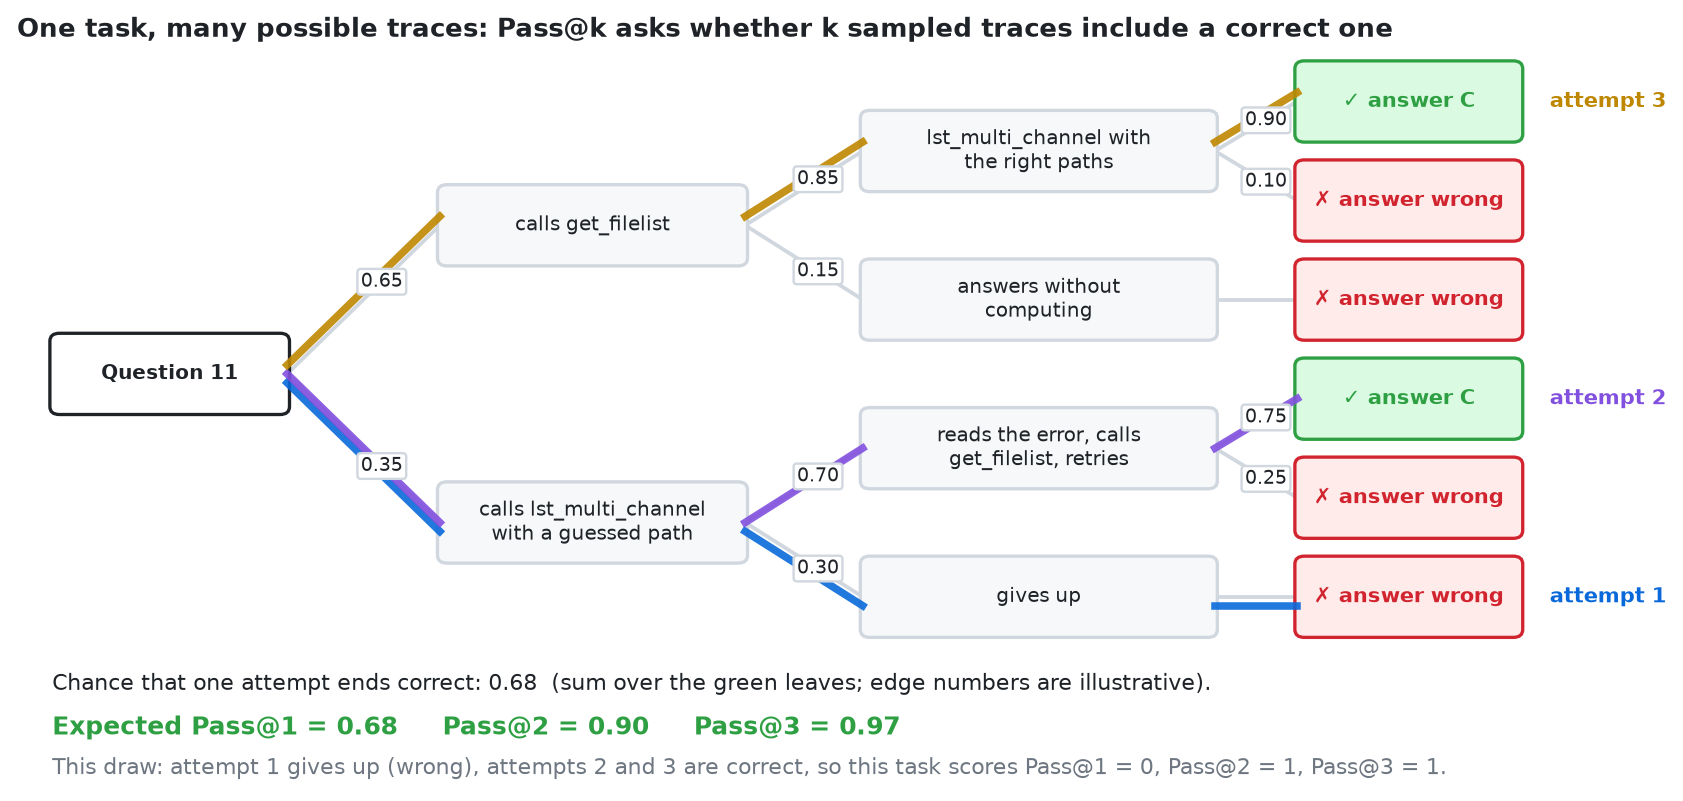
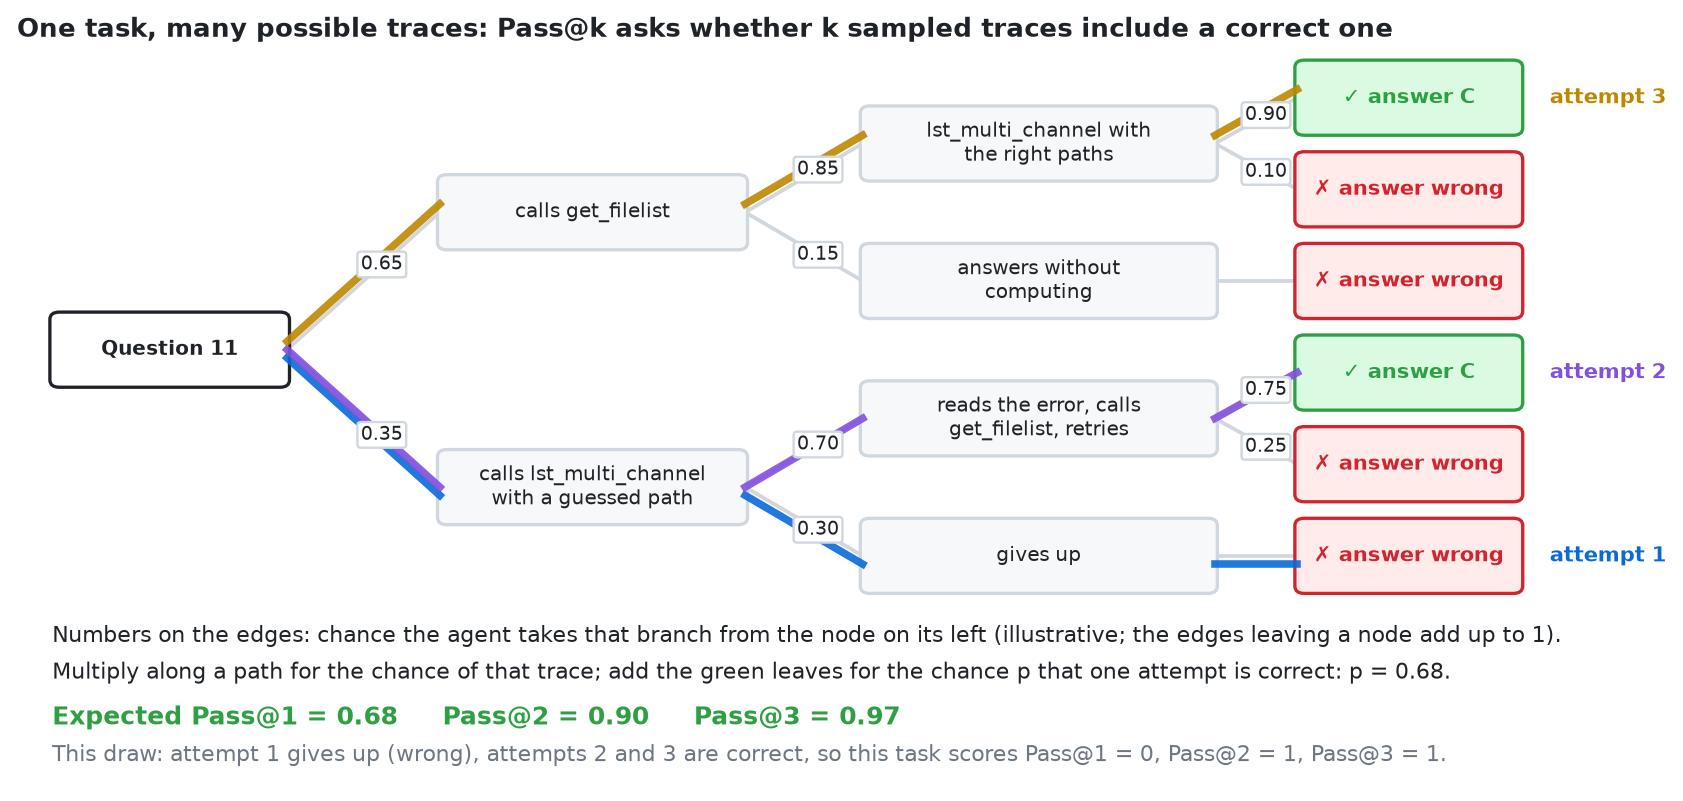
Shorten Pass@k to one tree figure and explain the edge probabilities.

Changed region(s): [[0.0309, 0.0624, 0.9887, 0.9675], [0.9269, 0.0936, 0.9887, 0.1561]]

diff --git a/sagemaker/figures/make_figures.py b/sagemaker/figures/make_figures.py
@@ -1,7 +1,6 @@
 """Regenerate the figures the workshop notebook embeds: ``python figures/make_figures.py`` from this folder.
 
-Pass@k curves use 1 - (1 - p)^k, the Pass@k of an agent that succeeds with
-probability p on every independent attempt (Chen et al., 2021, with n -> infinity).
+The Pass@k tree uses illustrative edge probabilities; Pass@k = 1 - (1 - p)^k.
 The run anatomy is the real trace of Earth-Bench question 11 from an EVE run.
 """
 
@@ -25,30 +24,11 @@ def box(ax, x, y, w, h, text, face, edge, size=9.5, color=INK, weight="normal"):
     ax.text(x + w / 2, y + h / 2, text, ha="center", va="center", fontsize=size, color=color, fontweight=weight)
 
 
-def pass_at_k():
-    fig, ax = plt.subplots(figsize=(7.2, 3.8))
-    ks = list(range(1, 9))
-    for p, colour in ((0.3, RED), (0.5, AMBER), (0.7, GREEN)):
-        ax.plot(ks, [1 - (1 - p) ** k for k in ks], marker="o", ms=4.5, lw=2, color=colour,
-                label=f"succeeds {int(p * 100)}% of the time per attempt")
-    ax.text(1.15, 0.06, "k = 1 is Pass@1: how reliable one try is", fontsize=8.6, color=MUTED)
-    ax.set_title("Pass@k grows with k, and the gap shows inconsistency", loc="left", fontsize=11, fontweight="bold")
-    ax.set_xlabel("k, attempts allowed")
-    ax.set_ylabel("Pass@k")
-    ax.set_ylim(0, 1.04)
-    ax.set_xticks(ks)
-    ax.grid(axis="y", color=GRID, lw=0.8)
-    ax.spines[["top", "right"]].set_visible(False)
-    ax.legend(frameon=False, fontsize=8.6, loc="lower right")
-    fig.savefig(OUT / "pass_at_k.png", dpi=170, bbox_inches="tight")
-    plt.close(fig)
-
-
 def pass_at_k_tree():
     """Tree of possible traces for one task. Edge probabilities are illustrative; the three drawn attempts are one sample."""
     fig, ax = plt.subplots(figsize=(11.5, 5.6))
     ax.set_xlim(-0.3, 12.6)
-    ax.set_ylim(-1.5, 5.9)
+    ax.set_ylim(-2.1, 5.9)
     ax.axis("off")
     ax.set_title("One task, many possible traces: Pass@k asks whether k sampled traces include a correct one",
                  loc="left", fontsize=11, fontweight="bold")
@@ -119,11 +99,13 @@ def pass_at_k_tree():
                 size=8.4, weight="bold" if name == "root" else "normal")
     p_ok = sum(prob[n] for n in correct)
     ps = [1 - (1 - p_ok) ** k for k in (1, 2, 3)]
-    ax.text(0.0, -0.55, f"Chance that one attempt ends correct: {p_ok:.2f}  (sum over the green leaves; edge numbers are illustrative).",
-            fontsize=9.5, color=INK)
-    ax.text(0.0, -1.0, f"Expected Pass@1 = {ps[0]:.2f}     Pass@2 = {ps[1]:.2f}     Pass@3 = {ps[2]:.2f}",
+    ax.text(0.0, -0.55, "Numbers on the edges: chance the agent takes that branch from the node on its left (illustrative; the edges leaving a node add up to 1).",
+            fontsize=9.2, color=INK)
+    ax.text(0.0, -0.95, f"Multiply along a path for the chance of that trace; add the green leaves for the chance p that one attempt is correct: p = {p_ok:.2f}.",
+            fontsize=9.2, color=INK)
+    ax.text(0.0, -1.45, f"Expected Pass@1 = {ps[0]:.2f}     Pass@2 = {ps[1]:.2f}     Pass@3 = {ps[2]:.2f}",
             fontsize=10.5, fontweight="bold", color=GREEN)
-    ax.text(0.0, -1.4, "This draw: attempt 1 gives up (wrong), attempts 2 and 3 are correct, so this task scores Pass@1 = 0, Pass@2 = 1, Pass@3 = 1.",
+    ax.text(0.0, -1.85, "This draw: attempt 1 gives up (wrong), attempts 2 and 3 are correct, so this task scores Pass@1 = 0, Pass@2 = 1, Pass@3 = 1.",
             fontsize=9.2, color=MUTED)
     fig.savefig(OUT / "pass_at_k_tree.png", dpi=170, bbox_inches="tight")
     plt.close(fig)
@@ -166,7 +148,6 @@ def run_anatomy():
 
 
 if __name__ == "__main__":
-    pass_at_k()
     pass_at_k_tree()
     run_anatomy()
-    print("wrote", OUT / "pass_at_k.png", OUT / "run_anatomy.png")
+    print("wrote", OUT / "pass_at_k_tree.png", OUT / "run_anatomy.png")
